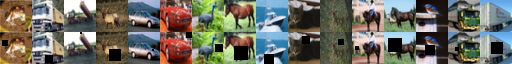
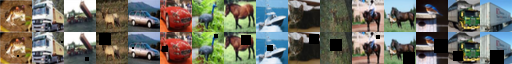
epoch 1 test

diff --git a/task2/task.py b/task2/task.py
@@ -12,7 +12,7 @@ from densenet3 import DenseNet3
 from utils import get_concat_h_multi_resize, get_concat_v_multi_resize
 
 # Global parameters
-EPOCHS = 10
+EPOCHS = 1
 # set model saving path
 curr_dir = os.getcwd()
 MODEL_NAME = 'cifar10-densenet3.h5'
@@ -23,6 +23,31 @@ cutout_class = Cutout()
 (x_train, y_train), (x_test, y_test) = cifar10.load_data()
 class_names = ['airplane', 'automobile', 'bird', 'cat', 'deer', 'dog', 'frog', 'horse', 'ship', 'truck']
 
+
+# data augmentation
+# TODO: optimise with fixed length array filling
+def augment_images(train_images: np.ndarray) -> np.ndarray:
+    cutout_train_images = np.array([cutout_class.cutout(im) for im in train_images])
+    return cutout_train_images
+
+# visualise the cutout implementation to cutout.png
+sample_16 = x_train[:16].astype('uint8')
+cutout_sample_16 = augment_images(x_train)[:16].astype('uint8')
+# 16 original pictures concatenated horizontally
+original_concated = get_concat_h_multi_resize(sample_16)
+# 16 cutout pictures concatenated horizontally
+cutout_concated = get_concat_h_multi_resize(cutout_sample_16)
+# both images above concatenated vertically
+get_concat_v_multi_resize([original_concated, cutout_concated]).save('cutout.png')
+
+
+# Data Aug: apply cutout into x_train
+x_train = augment_images(x_train)
+
+
+# change datatype to float
+x_train = x_train.astype('float32')
+x_test = x_test.astype('float32')
 # normalize images to [0,1]
 x_train = x_train / 255.0
 x_test = x_test / 255.0
@@ -30,6 +55,7 @@ x_test = x_test / 255.0
 # categorical encoding of labels
 y_train = to_categorical(y_train, 10)
 y_test = to_categorical(y_test, 10)
+
 
 # DenseNet model loading
 dense_net_class = DenseNet3()
@@ -46,27 +72,7 @@ checkpoint = ModelCheckpoint(filepath=MODEL_FILE_PATH,
                              verbose=1, save_best_only=True)
 callback = [checkpoint]
 
-
-# data augmentation
-# TODO: optimise with fixed length array filling
-def augment_images(train_images: np.ndarray) -> np.ndarray:
-    cutout_train_images = np.array([cutout_class.cutout(im) for im in train_images])
-    return cutout_train_images
-
-
-# # visualise the cutout implementation
-# sample_16 = x_train[:16]
-# cutout_sample_16 = np.array([cutout_class.cutout(im).astype('uint8') for im in sample_16])
-# # 16 original pictures concatenated horizontally
-# original_concated = get_concat_h_multi_resize(sample_16)
-# # 16 cutout pictures concatenated horizontally
-# cutout_concated = get_concat_h_multi_resize(cutout_sample_16)
-# # both images above concatenated vertically
-# get_concat_v_multi_resize([original_concated, cutout_concated]).save('cutout.png')
-
-# apply cutout into x_train
-x_train = augment_images(x_train)
-
+# Train the model
 history = model.fit(x_train, y_train, epochs=EPOCHS, validation_data=(x_test, y_test), callbacks=callback)
 
 

diff --git a/task2/densenet3.py b/task2/densenet3.py
@@ -22,10 +22,9 @@ class DenseNet3:
 	:param batch_size: set to 64
 	"""
 	def __init__(self, nb_layers=[4, 4, 4], classes=10, shape=(32, 32, 3), growth_rate=32, compression=1.0,
-	             dropout_rate=0.2, batch_size=64, with_output_block=True, with_se_layers=False):
+	             dropout_rate=0.2, batch_size=64, with_se_layers=False):
 		self.dropout_rate = dropout_rate
 		self.with_se_layers = with_se_layers
-		self.with_output_block = with_output_block
 		self.batch_size = batch_size
 		self.shape = shape
 		self.classes = classes
@@ -87,12 +86,9 @@ class DenseNet3:
 		x = BatchNormalization(name='conv_final_blk_bn')(x)
 		x = Activation('relu', name='relu_final_blk')(x)
 
-		# TODO: can erase this and erase self.with_output_block
-		if not self.with_output_block:
-			return Model(inputs=img_input, outputs=x)
-
-		x = GlobalAveragePooling2D(name='pool_final')(x)
-		x = Dense(self.classes, name='fc6')(x)
+		# Final fully connected layer
+		x = GlobalAveragePooling2D(name='final_pool')(x)
+		x = Dense(self.classes, name='final_fc')(x)
 		output = Activation('softmax', name='prob')(x)
 
 		return Model(inputs=img_input, outputs=output)
@@ -148,7 +144,7 @@ class DenseNet3:
 
 		return concat_feat, nb_filter
 
-	def transition_block(self, x, stage, nb_filter, compression=0.5, dropout_rate=None):
+	def transition_block(self, x, stage, nb_filter, compression=1.0, dropout_rate=None):
 		"""
 		To reduce the size, DenseNet uses transition layers.
 		These layers contain convolution with kernel size = 1 followed by
